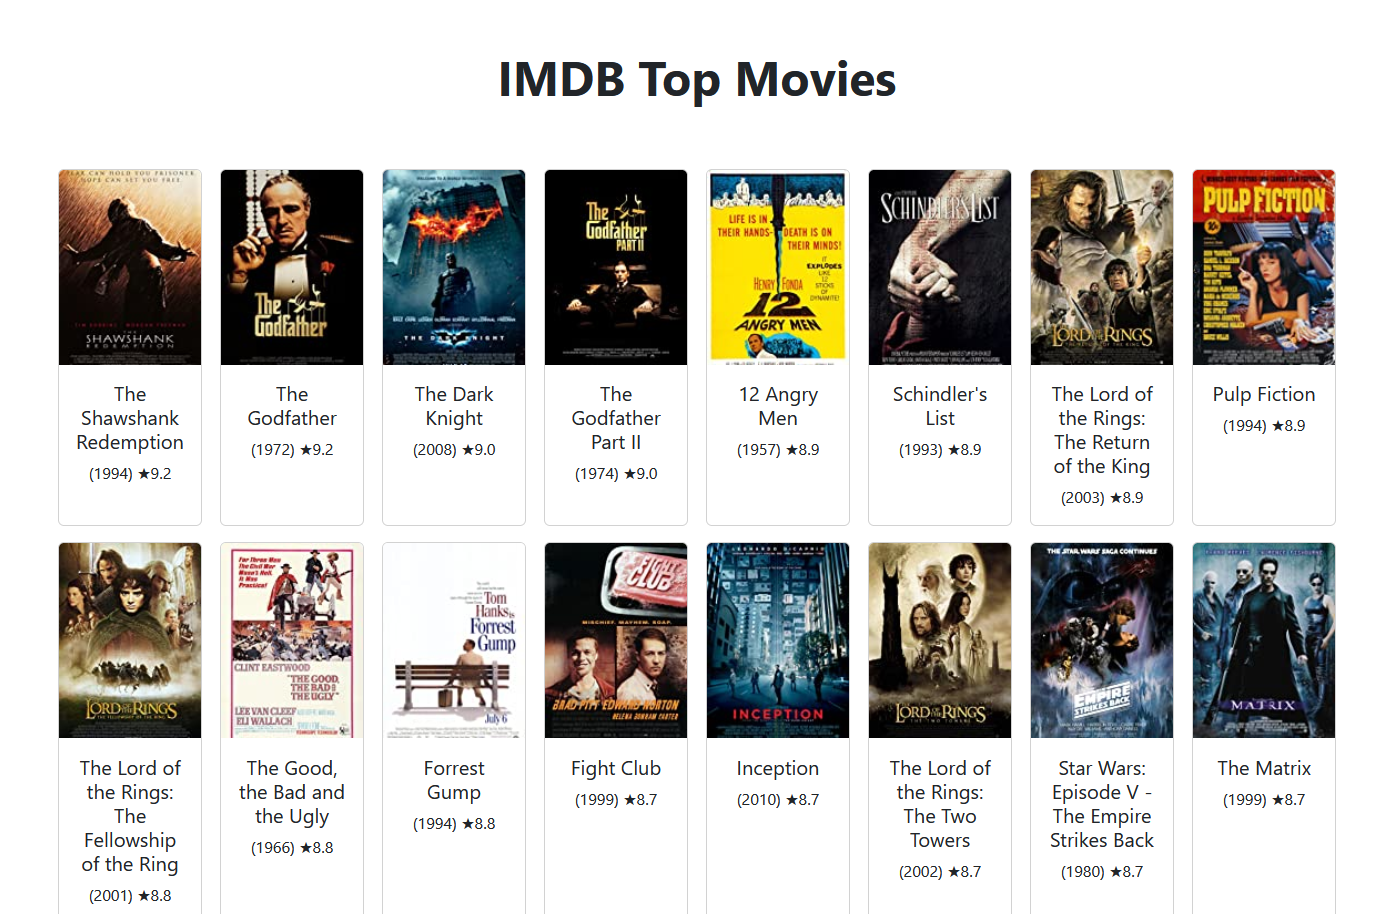
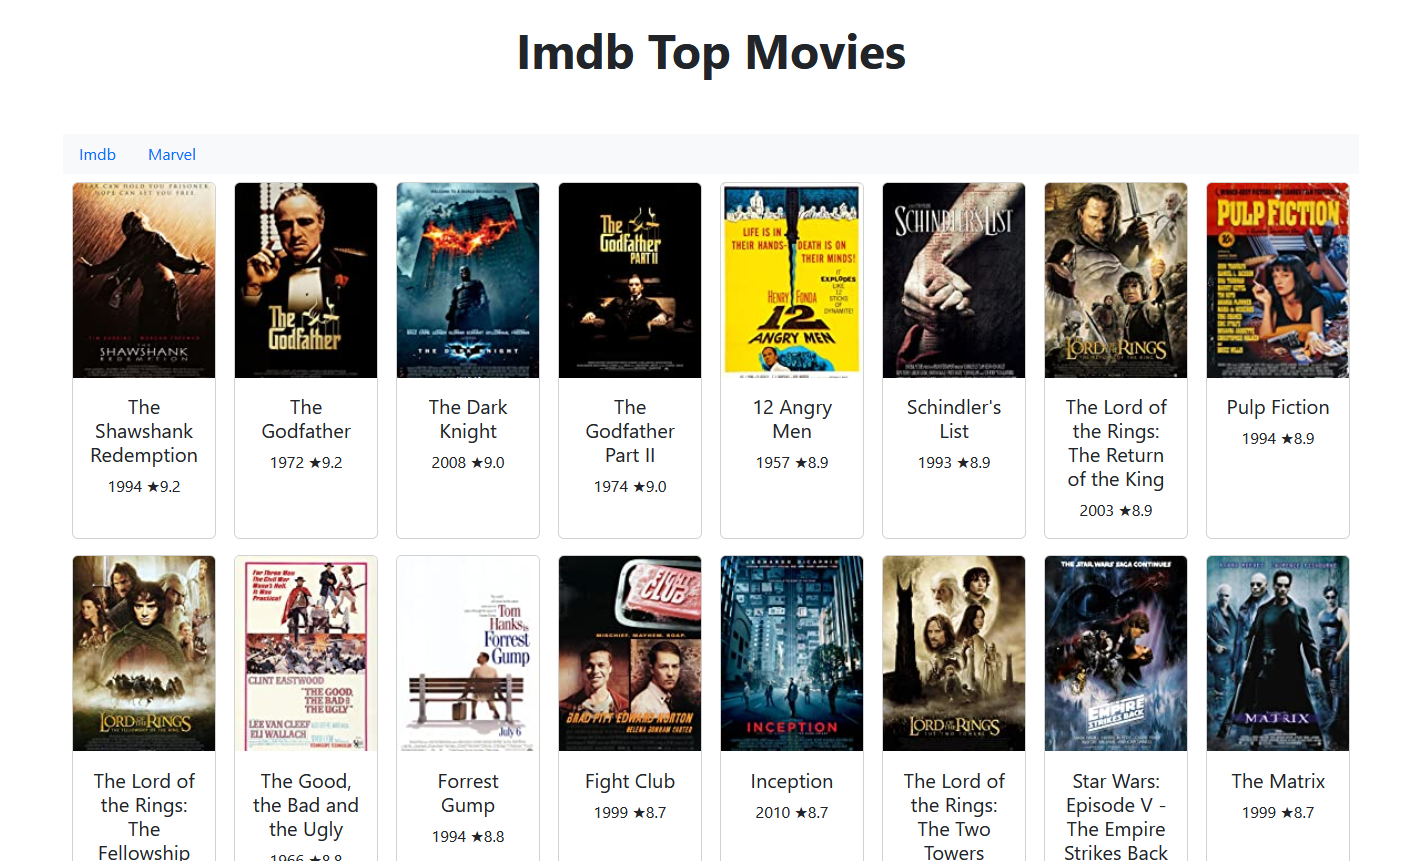
day 6

diff --git a/src/main/resources/templates/home.html b/src/main/resources/templates/home.html
@@ -4,26 +4,32 @@
   <meta charset="UTF-8">
   <meta http-equiv="X-UA-Compatible" content="IE=edge">
   <meta name="viewport" content="width=device-width, initial-scale=1.0">
-  <title>IMDB Top Movies</title>
+  <title th:text="${title}"></title>
   <link href="https://cdn.jsdelivr.net/npm/bootstrap@5.2.0-beta1/dist/css/bootstrap.min.css" rel="stylesheet" integrity="sha384-0evHe/X+R7YkIZDRvuzKMRqM+OrBnVFBL6DOitfPri4tjfHxaWutUpFmBp4vmVor" crossorigin="anonymous">
 </head>
 <body>
   <div class="container">
     <div class="container-fluid py-5 text-center">
-      <h1 class="display-5 fw-bold">IMDB Top Movies</h1>
+      <h1 class="display-5 fw-bold" th:text="${title}"></h1>
     </div>
+
+    <nav class="nav bg-light">
+      <a class="nav-link" th:href="@{/imdb}">Imdb</a>
+      <a class="nav-link" th:href="@{/marvel}">Marvel</a>
+    </nav>
+
     <div class="d-flex flex-row flex-wrap justify-content-around">
-      <div class="card mx-1 my-2" style="width: 9rem;" th:each="movie : ${movies}">
-        <img th:src="${movie.urlImage}" class="card-img-top" alt="">
+      <div class="card mx-1 my-2" style="width: 9rem;" th:each="content : ${contents}">
+        <img th:src="${content.urlImage}" class="card-img-top" alt="">
         <div class="card-body text-center">
-          <h5 class="card-title" th:text="${movie.title}"></h5>
-          (<span class="card-text" th:text="${movie.year}"></span>)
-          ★<span class="card-text" th:text="${movie.rating}"></span>
+          <h5 class="card-title" th:text="${content.title}"></h5>
+          <span class="card-text" th:text="${content.year}"></span>
+          <span class="card-text" th:text="${content.info}"></span>
         </div>
       </div>
     </div>
   </div>
     
-  <script src="https://cdn.jsdelivr.net/npm/bootstrap@5.2.0-beta1/dist/js/bootstrap.min.js" integrity="sha384-kjU+l4N0Yf4ZOJErLsIcvOU2qSb74wXpOhqTvwVx3OElZRweTnQ6d31fXEoRD1Jy" crossorigin="anonymous"></script>
+  <script src="https://cdn.jsdelivr.net/npm/bootstrap@5.2.0-beta1/dist/js/bootstrap.bundle.min.js" integrity="sha384-pprn3073KE6tl6bjs2QrFaJGz5/SUsLqktiwsUTF55Jfv3qYSDhgCecCxMW52nD2" crossorigin="anonymous"></script>
 </body>
 </html>

diff --git a/src/main/java/mauriciomds/github/io/imdbtopmovies/utils/MarvelParserUtil.java b/src/main/java/mauriciomds/github/io/imdbtopmovies/utils/MarvelParserUtil.java
@@ -1,0 +1,37 @@
+package mauriciomds.github.io.imdbtopmovies.utils;
+
+import java.util.ArrayList;
+import java.util.List;
+
+import com.google.gson.JsonArray;
+import com.google.gson.JsonObject;
+import com.google.gson.JsonParser;
+
+import mauriciomds.github.io.imdbtopmovies.models.Content;
+import mauriciomds.github.io.imdbtopmovies.models.MarvelSeries;
+
+public interface MarvelParserUtil extends JsonParserUtil{
+
+  public static List<Content> stringToListOfContent(String string) {
+    JsonArray arrayOfContent = JsonParser.parseString(string).getAsJsonObject().get("data").getAsJsonObject().get("results").getAsJsonArray();
+
+    List<Content> content = new ArrayList<>();
+
+      	for (int i = 0; i < arrayOfContent.size(); i++) {
+      		JsonObject unparsedContent = arrayOfContent.get(i).getAsJsonObject();
+					unparsedContent.get("thumbnail").getAsJsonObject();
+
+					JsonObject unparsedImage = unparsedContent.get("thumbnail").getAsJsonObject();
+					String urlImage = unparsedImage.get("path").getAsString() + "." + unparsedImage.get("extension").getAsString();
+
+      		content.add(new MarvelSeries(
+      			unparsedContent.get("title").getAsString(),
+      			urlImage,
+      			unparsedContent.get("startYear").getAsString(),
+						unparsedContent.get("rating").getAsString()
+      		));
+      	}
+        return content;
+  }
+  
+}

diff --git a/src/main/java/mauriciomds/github/io/imdbtopmovies/utils/ImdbParserUtil.java b/src/main/java/mauriciomds/github/io/imdbtopmovies/utils/ImdbParserUtil.java
@@ -1,0 +1,32 @@
+package mauriciomds.github.io.imdbtopmovies.utils;
+
+import java.util.ArrayList;
+import java.util.List;
+
+import com.google.gson.JsonArray;
+import com.google.gson.JsonObject;
+import com.google.gson.JsonParser;
+
+import mauriciomds.github.io.imdbtopmovies.models.Content;
+import mauriciomds.github.io.imdbtopmovies.models.Movie;
+
+public interface ImdbParserUtil extends JsonParserUtil{
+
+  public static List<Content> stringToListOfContent(String string) {
+    JsonArray arrayOfContent = JsonParser.parseString(string).getAsJsonObject().getAsJsonArray("items");
+
+    List<Content> content = new ArrayList<>();
+
+      	for (int i = 0; i < arrayOfContent.size(); i++) {
+      		JsonObject unparsedContent = arrayOfContent.get(i).getAsJsonObject();
+      		content.add(new Movie(
+      			unparsedContent.get("title").getAsString(),
+      			unparsedContent.get("image").getAsString(),
+      			unparsedContent.get("year").getAsString(),
+						unparsedContent.get("imDbRating").getAsString()
+      		));
+      	}
+        return content;
+  }
+  
+}

diff --git a/src/main/java/mauriciomds/github/io/imdbtopmovies/models/Movie.java b/src/main/java/mauriciomds/github/io/imdbtopmovies/models/Movie.java
@@ -1,38 +1,14 @@
 package mauriciomds.github.io.imdbtopmovies.models;
 
-public class Movie {
+public class Movie extends Content {
 
-  private String title;
-  private String urlImage;
-  private String rating;
-  private String year;
-
-  public Movie(String title, String urlImage, String rating, String year) {
-    this.title = title;
-    this.urlImage = urlImage;
-    this.rating = rating;
-    this.year = year;
-  }
-
-  public String getTitle() {
-    return title;
-  }
-
-  public String getUrlImage() {
-    return urlImage;
-  }
-
-  public String getRating() {
-    return rating;
-  }
-
-  public String getYear() {
-    return year;
+  public Movie(String title, String urlImage, String year, String info) {
+    super(title, urlImage, year, info);
   }
 
   @Override
-  public String toString() {
-    return "[title=" + title + ", year=" + year + ", urlImage=" + urlImage + ", rating=" + rating + "]";
+  public String getInfo(){
+    return "★" + super.getInfo();
   }
   
 }

diff --git a/src/main/java/mauriciomds/github/io/imdbtopmovies/controllers/ImdbController.java b/src/main/java/mauriciomds/github/io/imdbtopmovies/controllers/ImdbController.java
@@ -7,17 +7,20 @@ import org.springframework.ui.Model;
 import org.springframework.web.bind.annotation.GetMapping;
 import org.springframework.web.bind.annotation.RequestMapping;
 
-import mauriciomds.github.io.imdbtopmovies.models.Movie;
+import mauriciomds.github.io.imdbtopmovies.models.Content;
+import mauriciomds.github.io.imdbtopmovies.utils.ImdbParserUtil;
 import mauriciomds.github.io.imdbtopmovies.utils.ImdbUtil;
 
 @Controller
-@RequestMapping("/**")
-public class HomeController {
+@RequestMapping("/imdb")
+public class ImdbController {
 
   @GetMapping
   public String home(Model model) {
-    List<Movie> movies = ImdbUtil.getTopMovies();
-    model.addAttribute("movies", movies);
+    String unparsedContent = ImdbUtil.getTopMovies();
+    List<Content> contents = ImdbParserUtil.stringToListOfContent(unparsedContent);
+    model.addAttribute("contents", contents);
+    model.addAttribute("title", "Imdb Top Movies");
     return "home";
   }
   

diff --git a/src/main/java/mauriciomds/github/io/imdbtopmovies/controllers/MarvelController.java b/src/main/java/mauriciomds/github/io/imdbtopmovies/controllers/MarvelController.java
@@ -1,0 +1,27 @@
+package mauriciomds.github.io.imdbtopmovies.controllers;
+
+import java.util.List;
+
+import org.springframework.stereotype.Controller;
+import org.springframework.ui.Model;
+import org.springframework.web.bind.annotation.GetMapping;
+import org.springframework.web.bind.annotation.RequestMapping;
+
+import mauriciomds.github.io.imdbtopmovies.models.Content;
+import mauriciomds.github.io.imdbtopmovies.utils.MarvelParserUtil;
+import mauriciomds.github.io.imdbtopmovies.utils.MarvelUtil;
+
+@Controller
+@RequestMapping("/marvel")
+public class MarvelController {
+
+  @GetMapping
+  public String home(Model model) {
+    String unparsedContent = MarvelUtil.getSeries();
+    List<Content> contents = MarvelParserUtil.stringToListOfContent(unparsedContent);
+    model.addAttribute("contents", contents);
+    model.addAttribute("title", "Marvel Series");
+    return "home";
+  }
+  
+}

diff --git a/src/main/java/mauriciomds/github/io/imdbtopmovies/utils/MarvelUtil.java b/src/main/java/mauriciomds/github/io/imdbtopmovies/utils/MarvelUtil.java
@@ -10,17 +10,17 @@ import java.net.http.HttpResponse.BodyHandlers;
 
 import mauriciomds.github.io.imdbtopmovies.exceptions.ApiConnectionException;
 
-public interface ImdbUtil {
+public interface MarvelUtil {
 
-  public static String getTopMovies(){
+  public static String getSeries(){
 
-    String key = System.getenv("IMDB_KEY");
+    String key = System.getenv("MARVEL_KEY");
     HttpClient client = HttpClient.newBuilder().build();
 
     try {
       HttpRequest request = HttpRequest
       	.newBuilder()
-      	.uri(new URI("https://imdb-api.com/en/API/Top250Movies/" + key))
+      	.uri(new URI("https://gateway.marvel.com/v1/public/series?orderBy=modified&limit=100" + key))
       	.GET()
       	.build();
 

diff --git a/src/main/java/mauriciomds/github/io/imdbtopmovies/models/Content.java b/src/main/java/mauriciomds/github/io/imdbtopmovies/models/Content.java
@@ -1,0 +1,32 @@
+package mauriciomds.github.io.imdbtopmovies.models;
+
+public abstract class Content {
+
+  private String title;
+  private String urlImage;
+  private String year;
+  private String info;
+
+  protected Content(String title, String urlImage, String year, String info) {
+    this.title = title;
+    this.urlImage = urlImage;
+    this.year = year;
+    this.info = info;
+  }
+
+  public String getTitle() {
+    return this.title;
+  }
+
+  public String getUrlImage() {
+    return this.urlImage;
+  }
+
+  public String getYear() {
+    return this.year;
+  }
+
+  public String getInfo() {
+    return this.info;
+  }
+}

diff --git a/src/main/java/mauriciomds/github/io/imdbtopmovies/utils/JsonParserUtil.java b/src/main/java/mauriciomds/github/io/imdbtopmovies/utils/JsonParserUtil.java
@@ -1,0 +1,14 @@
+package mauriciomds.github.io.imdbtopmovies.utils;
+
+import java.util.List;
+
+import mauriciomds.github.io.imdbtopmovies.exceptions.MustImplementInterfaceException;
+import mauriciomds.github.io.imdbtopmovies.models.Content;
+
+public interface JsonParserUtil {
+
+  public static List<Content> stringToListOfContent(String string){
+    throw new MustImplementInterfaceException("Must be implemented");
+  }
+
+}

diff --git a/src/main/java/mauriciomds/github/io/imdbtopmovies/models/MarvelSeries.java b/src/main/java/mauriciomds/github/io/imdbtopmovies/models/MarvelSeries.java
@@ -1,0 +1,9 @@
+package mauriciomds.github.io.imdbtopmovies.models;
+
+public class MarvelSeries extends Content {
+
+  public MarvelSeries(String title, String urlImage, String year, String rating) {
+    super(title, urlImage, year, rating);
+  }
+  
+}

diff --git a/src/main/java/mauriciomds/github/io/imdbtopmovies/exceptions/MustImplementInterfaceException.java b/src/main/java/mauriciomds/github/io/imdbtopmovies/exceptions/MustImplementInterfaceException.java
@@ -1,0 +1,9 @@
+package mauriciomds.github.io.imdbtopmovies.exceptions;
+
+public class MustImplementInterfaceException extends RuntimeException{
+
+  public MustImplementInterfaceException(String message) {
+    super(message);
+  }
+  
+}

diff --git a/src/main/java/mauriciomds/github/io/imdbtopmovies/exceptions/ApiConnectionException.java b/src/main/java/mauriciomds/github/io/imdbtopmovies/exceptions/ApiConnectionException.java
@@ -1,0 +1,9 @@
+package mauriciomds.github.io.imdbtopmovies.exceptions;
+
+public class ApiConnectionException extends RuntimeException{
+
+  public ApiConnectionException(Throwable cause) {
+    super(cause);
+  }
+  
+}
